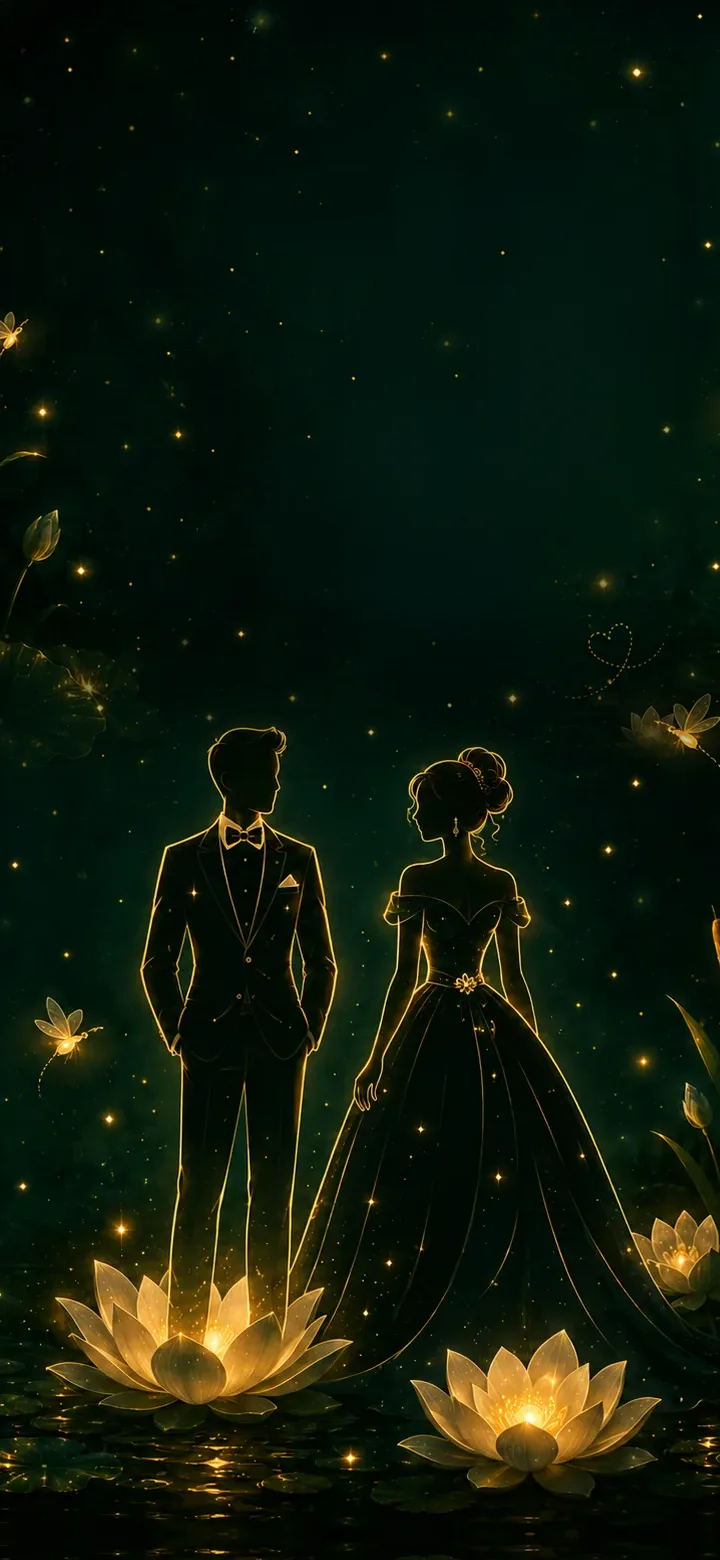
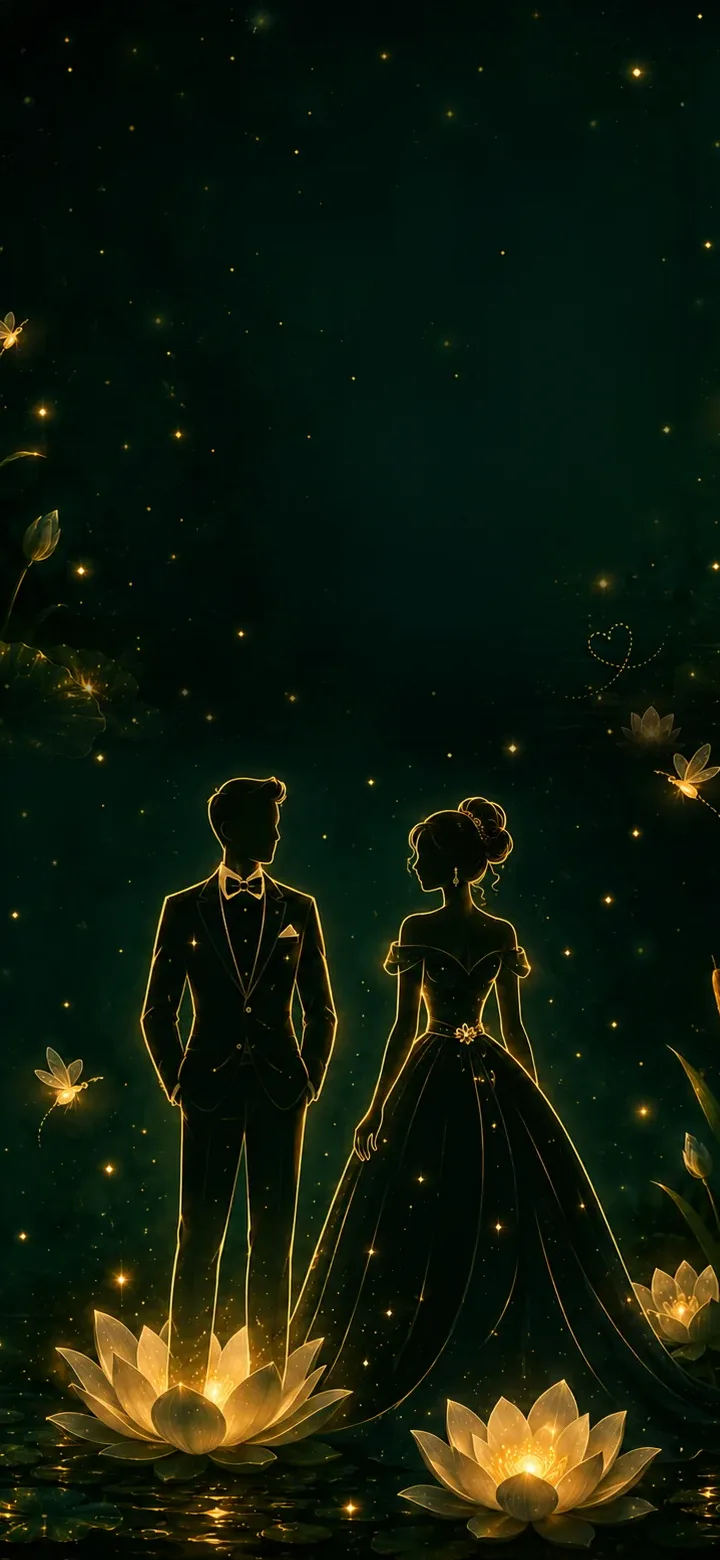
Movil Etiqueta: cabezas intactas (fundido por encima + figuras mas abajo)
Las cabezas caian dentro de la zona de fundido y se veian cortadas. Ahora el
feather (120px) termina por encima de las cabezas y las figuras bajan un poco;
se prefiere cortar los lotos del borde inferior antes que las cabezas.
data-bg-mobile ?v=5.

diff --git a/daniela-xv.html b/daniela-xv.html
@@ -647,7 +647,7 @@
   <div class="scene" id="scene-dress">
 
     <!-- Fondo (pareja, lotos, libélulas) -->
-    <div id="dress-bg" data-bg="fondo_vestimenta.webp" data-bg-mobile="fondo_vestimenta_movil.webp?v=4" data-scene="5"></div>
+    <div id="dress-bg" data-bg="fondo_vestimenta.webp" data-bg-mobile="fondo_vestimenta_movil.webp?v=5" data-scene="5"></div>
     <div id="dress-overlay"></div>
 
     <div id="dress-content">
